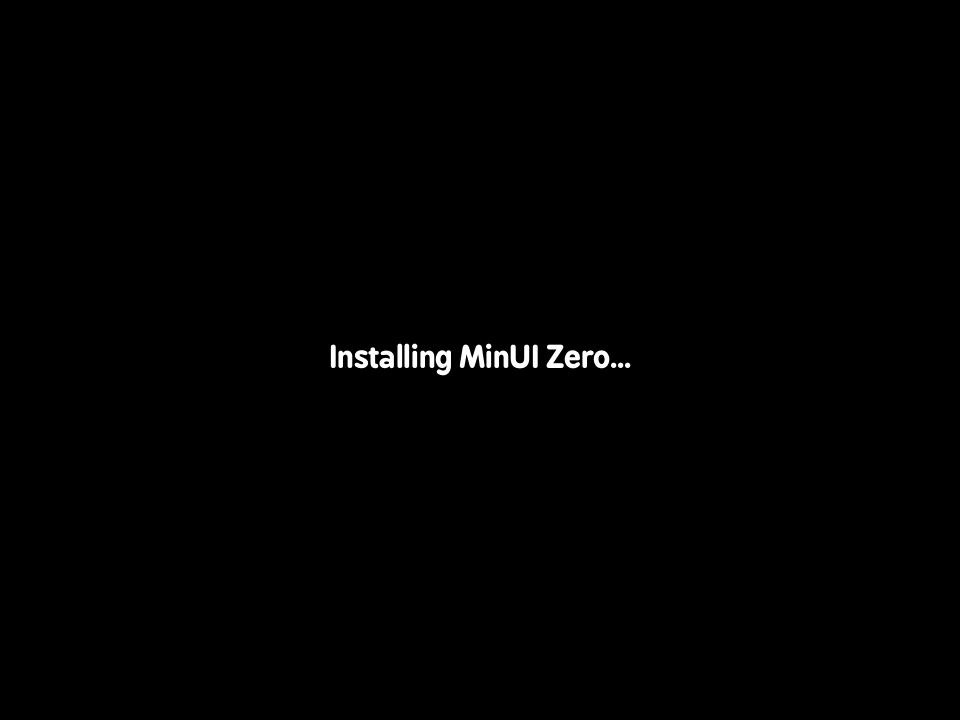
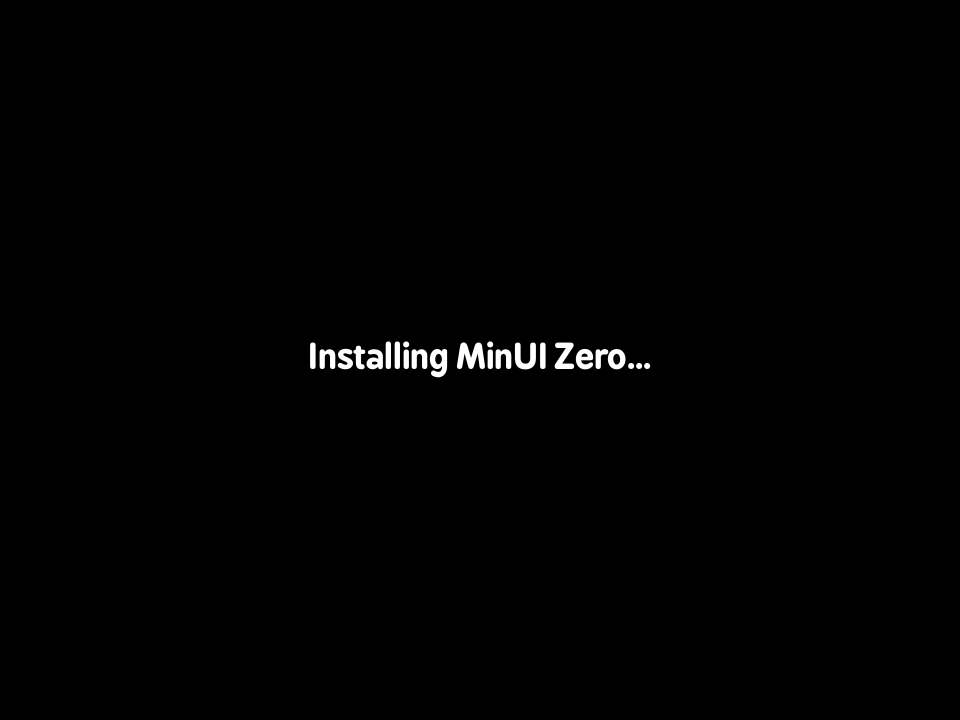
Bump the installer and updater splash text a step

Changed region(s): [[0.3125, 0.4583, 0.6875, 0.5194]]

diff --git a/tools/make-install-art.py b/tools/make-install-art.py
@@ -14,7 +14,7 @@ from PIL import Image, ImageDraw, ImageFont
 
 REPO = pathlib.Path(__file__).resolve().parent.parent
 FONT = REPO / "skeleton/SYSTEM/res/BPreplayBold-unhinted.otf"
-TEXT_H_FRAC = 1 / 32  # ~15 px cap height on 480 rows; the old art was ~1/11
+TEXT_H_FRAC = 1 / 28  # ~17 px cap height on 480 rows; the old art was ~1/11, 1/32 read tiny (Dan, 2026-09-22)
 
 TARGETS = {
     "workspace/tg5040/install": (640, 480),
